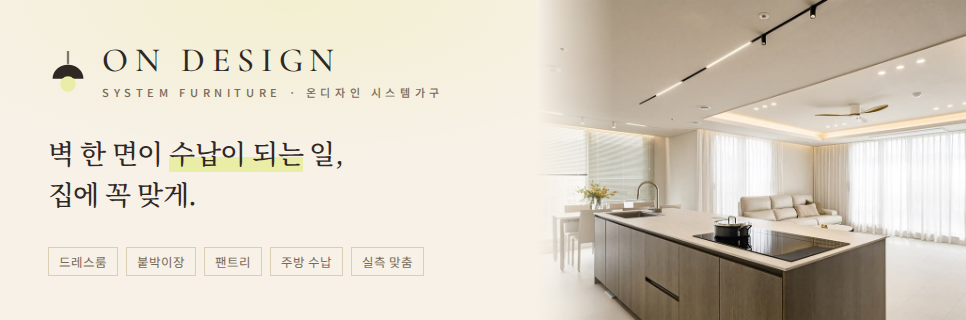
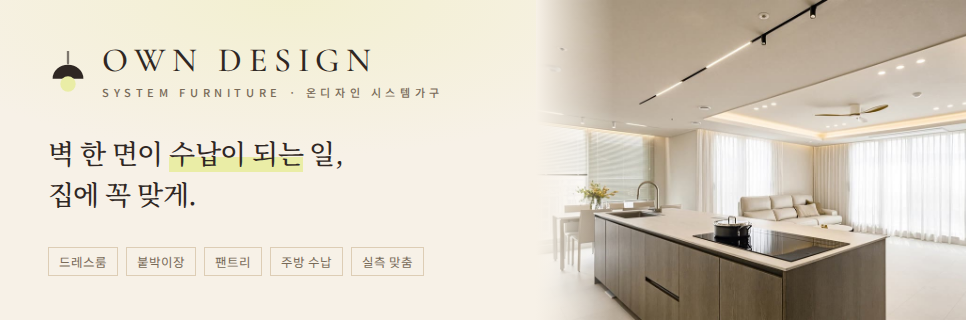
Use OWN DESIGN wordmark for 온디자인 시스템가구 (#3)
Claude-Session: https://claude.ai/code/session_01V93tFqR1GkQdZLP72TjJnm

Changed region(s): [[0.1242, 0.1562, 0.4037, 0.25]]

diff --git a/furniture/index.html b/furniture/index.html
@@ -339,7 +339,7 @@
 
 <header class="top" id="top">
   <div class="wrap">
-    <a class="mark brand" href="#" aria-label="온디자인 시스템가구 처음으로"><svg viewBox="0 0 26 28" aria-hidden="true"><path d="M13 0v8" stroke="#2F2723" stroke-width="1.5" stroke-linecap="round" opacity=".6"/><path d="M3 18a10 9 0 0 1 20 0z" fill="#2F2723"/><circle cx="13" cy="21.5" r="5" fill="#EAEDA6"/></svg><span class="name"><b>ON DESIGN</b><small>SYSTEM FURNITURE</small></span><span class="ko">온디자인 시스템가구</span></a>
+    <a class="mark brand" href="#" aria-label="온디자인 시스템가구 처음으로"><svg viewBox="0 0 26 28" aria-hidden="true"><path d="M13 0v8" stroke="#2F2723" stroke-width="1.5" stroke-linecap="round" opacity=".6"/><path d="M3 18a10 9 0 0 1 20 0z" fill="#2F2723"/><circle cx="13" cy="21.5" r="5" fill="#EAEDA6"/></svg><span class="name"><b>OWN DESIGN</b><small>SYSTEM FURNITURE</small></span><span class="ko">온디자인 시스템가구</span></a>
     <nav class="nav" aria-label="주요 메뉴">
       <a href="#products">제품</a>
       <a href="#planner">구성 미리보기</a>
@@ -472,7 +472,7 @@
   <section class="why">
     <div class="wrap">
       <div class="sec-head reveal">
-        <p class="eyebrow">Why On Design</p>
+        <p class="eyebrow">Why Own Design</p>
         <h2>인테리어를 하는 팀이<br>가구를 짓는 이유</h2>
         <p class="lead">가구만 보는 것이 아니라 벽, 조명, 바닥과 함께 봅니다. 그래서 공간에 붙어 있는 것처럼 들어갑니다.</p>
       </div>
@@ -722,7 +722,7 @@
 
 <footer>
   <div class="wrap">
-    <a class="mark" href="#" aria-label="온디자인 시스템가구 처음으로"><svg viewBox="0 0 26 28" aria-hidden="true"><path d="M13 0v8" stroke="#2F2723" stroke-width="1.5" stroke-linecap="round" opacity=".6"/><path d="M3 18a10 9 0 0 1 20 0z" fill="#2F2723"/><circle cx="13" cy="21.5" r="5" fill="#EAEDA6"/></svg><span class="name"><b>ON DESIGN</b><small>SYSTEM FURNITURE</small></span></a>
+    <a class="mark" href="#" aria-label="온디자인 시스템가구 처음으로"><svg viewBox="0 0 26 28" aria-hidden="true"><path d="M13 0v8" stroke="#2F2723" stroke-width="1.5" stroke-linecap="round" opacity=".6"/><path d="M3 18a10 9 0 0 1 20 0z" fill="#2F2723"/><circle cx="13" cy="21.5" r="5" fill="#EAEDA6"/></svg><span class="name"><b>OWN DESIGN</b><small>SYSTEM FURNITURE</small></span></a>
     <div class="meta">
       <a href="tel:031-572-2114">T. 031 572 2114</a>
       <a href="http://www.myowndesign.co.kr/" target="_blank" rel="noopener">myowndesign.co.kr</a>
